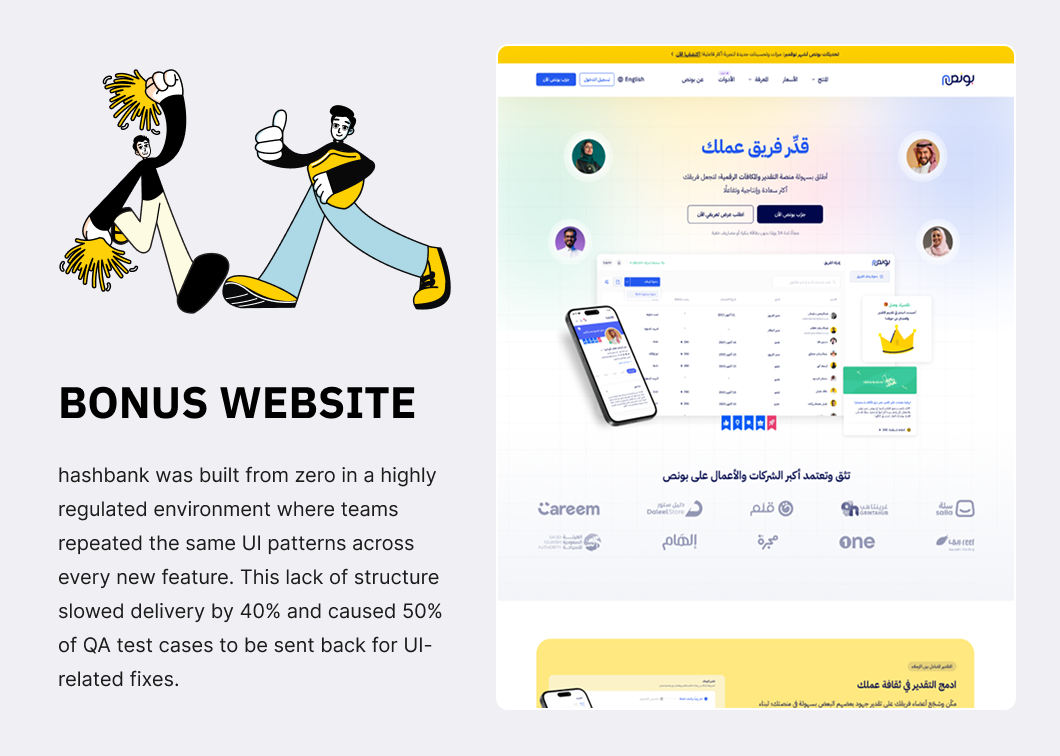
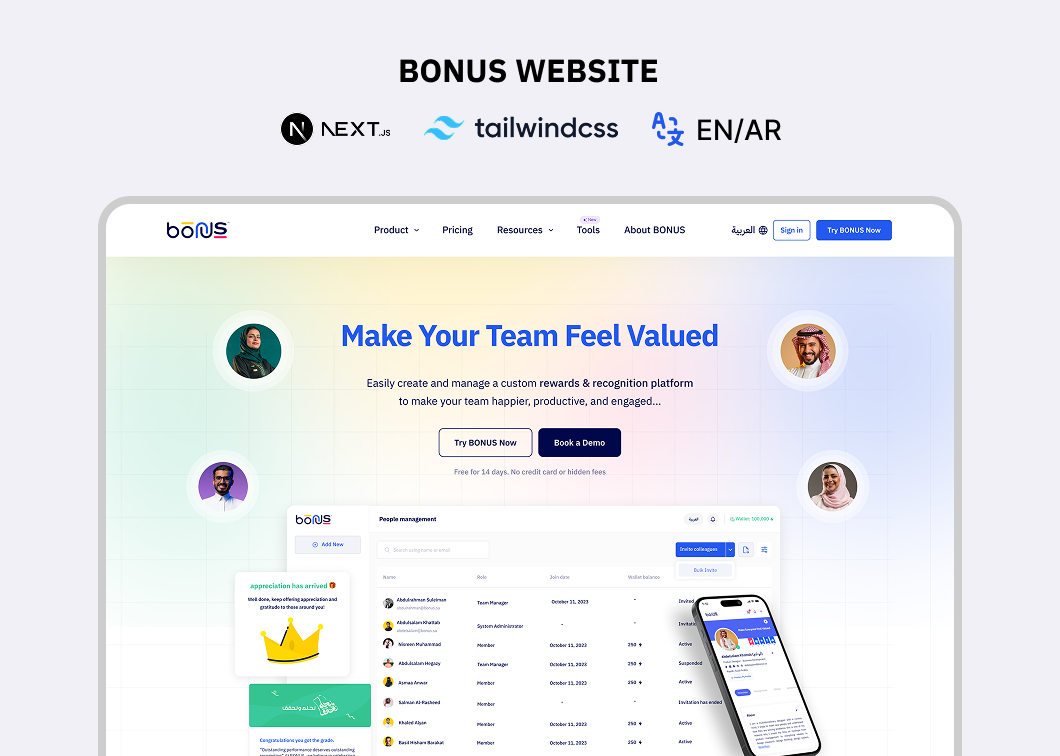
4/10

diff --git a/src/sections/SelectedProjects.tsx b/src/sections/SelectedProjects.tsx
@@ -55,25 +55,45 @@ export default function SelectedProjects() {
               className="group flex flex-col transition-all duration-300"
             >
               {/* Image Side (Top) */}
-              <Link
-                href={`/work/${work.slug}`}
-                className="relative overflow-hidden rounded-[16px] md:rounded-[20px] aspect-[1.4/1] mb-6 border border-[#f0f0f0] hover:border-[#e5e5e5] transition-all duration-300 bg-[#f9f9f9]"
-              >
-                <div className="absolute inset-0">
-                  <Image
-                    src={work.image}
-                    alt={work.title}
-                    fill
-                    sizes="(max-width: 768px) 100vw, 50vw"
-                    quality={85}
-                    className="object-cover transition-transform duration-700 group-hover:scale-105"
-                  />
-                </div>
-              </Link>
+              {work.type === "Front-end" && work.link ? (
+                <a
+                  href={work.link}
+                  target="_blank"
+                  rel="noopener noreferrer"
+                  className="relative overflow-hidden rounded-[16px] md:rounded-[20px] aspect-[1.4/1] mb-6 border border-[#f0f0f0] hover:border-[#e5e5e5] transition-all duration-300 bg-[#f9f9f9] block"
+                >
+                  <div className="absolute inset-0">
+                    <Image
+                      src={work.image}
+                      alt={work.title}
+                      fill
+                      sizes="(max-width: 768px) 100vw, 50vw"
+                      quality={85}
+                      className="object-cover transition-transform duration-700 group-hover:scale-105"
+                    />
+                  </div>
+                </a>
+              ) : (
+                <Link
+                  href={`/work/${work.slug}`}
+                  className="relative overflow-hidden rounded-[16px] md:rounded-[20px] aspect-[1.4/1] mb-6 border border-[#f0f0f0] hover:border-[#e5e5e5] transition-all duration-300 bg-[#f9f9f9]"
+                >
+                  <div className="absolute inset-0">
+                    <Image
+                      src={work.image}
+                      alt={work.title}
+                      fill
+                      sizes="(max-width: 768px) 100vw, 50vw"
+                      quality={85}
+                      className="object-cover transition-transform duration-700 group-hover:scale-105"
+                    />
+                  </div>
+                </Link>
+              )}
 
               {/* Content Side (Bottom) */}
               <div className="pt-4 space-y-2">
-                <h3 className="text-[17px] font-bold text-[#111] uppercase tracking-tighter">
+                <h3 className="text-[17px] font-bold text-[#111] uppercase  ">
                   {work.title}
                 </h3>
 

diff --git a/src/data/projects.ts b/src/data/projects.ts
@@ -159,9 +159,9 @@ export const cases = [
     outcome:
       "The website achieved a 40% performance boost and scaled to handle 15k+ users.",
     slug: "bonus-app",
-    image: "/images/Projects/thumbnails/3.png",
+    image: "/images/Projects/thumbnails/1.png",
     images: [
-      "/images/Projects/thumbnails/3.png",
+      "/images/Projects/thumbnails/1.png",
       "https://images.unsplash.com/photo-1563986768609-322da13575f3?q=80&w=2670&auto=format&fit=crop",
       "https://images.unsplash.com/photo-1634017839464-5c339ebe3cb4?q=80&w=2670&auto=format&fit=crop",
     ],
@@ -290,8 +290,9 @@ export const cases = [
       { hex: "#333333", name: "Charcoal" },
       { hex: "#C0C0C0", name: "Silver" },
     ],
-    image: "/images/Projects/places/1.png",
+    image: "/images/Projects/thumbnails/places-cover.png",
     images: [
+      "/images/Projects/places/places-cover.png",
       "/images/Projects/places/1.png",
       "/images/Projects/places/2.png",
       "/images/Projects/places/3.png",

diff --git a/src/sections/HeroLight.tsx b/src/sections/HeroLight.tsx
@@ -490,7 +490,7 @@ export default function HeroLight({
               </h6>
               <h1
                 ref={headingRef}
-                className="font-bricolage font-extrabold mt-2 text-[clamp(2.5rem,4w,36px)] md:text-[clamp(1.8rem,4vw,44px)] lg:text-[48px] leading-[1.1] tracking-[-0.02em] text-[#111] opacity-0"
+                className="font-bricolage font-extrabold mt-2 text-[24px]  md:text-[clamp(1.8rem,4vw,44px)] lg:text-[48px] leading-[1.1] tracking-[-0.02em] text-[#111] opacity-0"
               >
                 Product Engineer <span className="text-[#ff4d00]">.</span>{" "}
                 <br />
